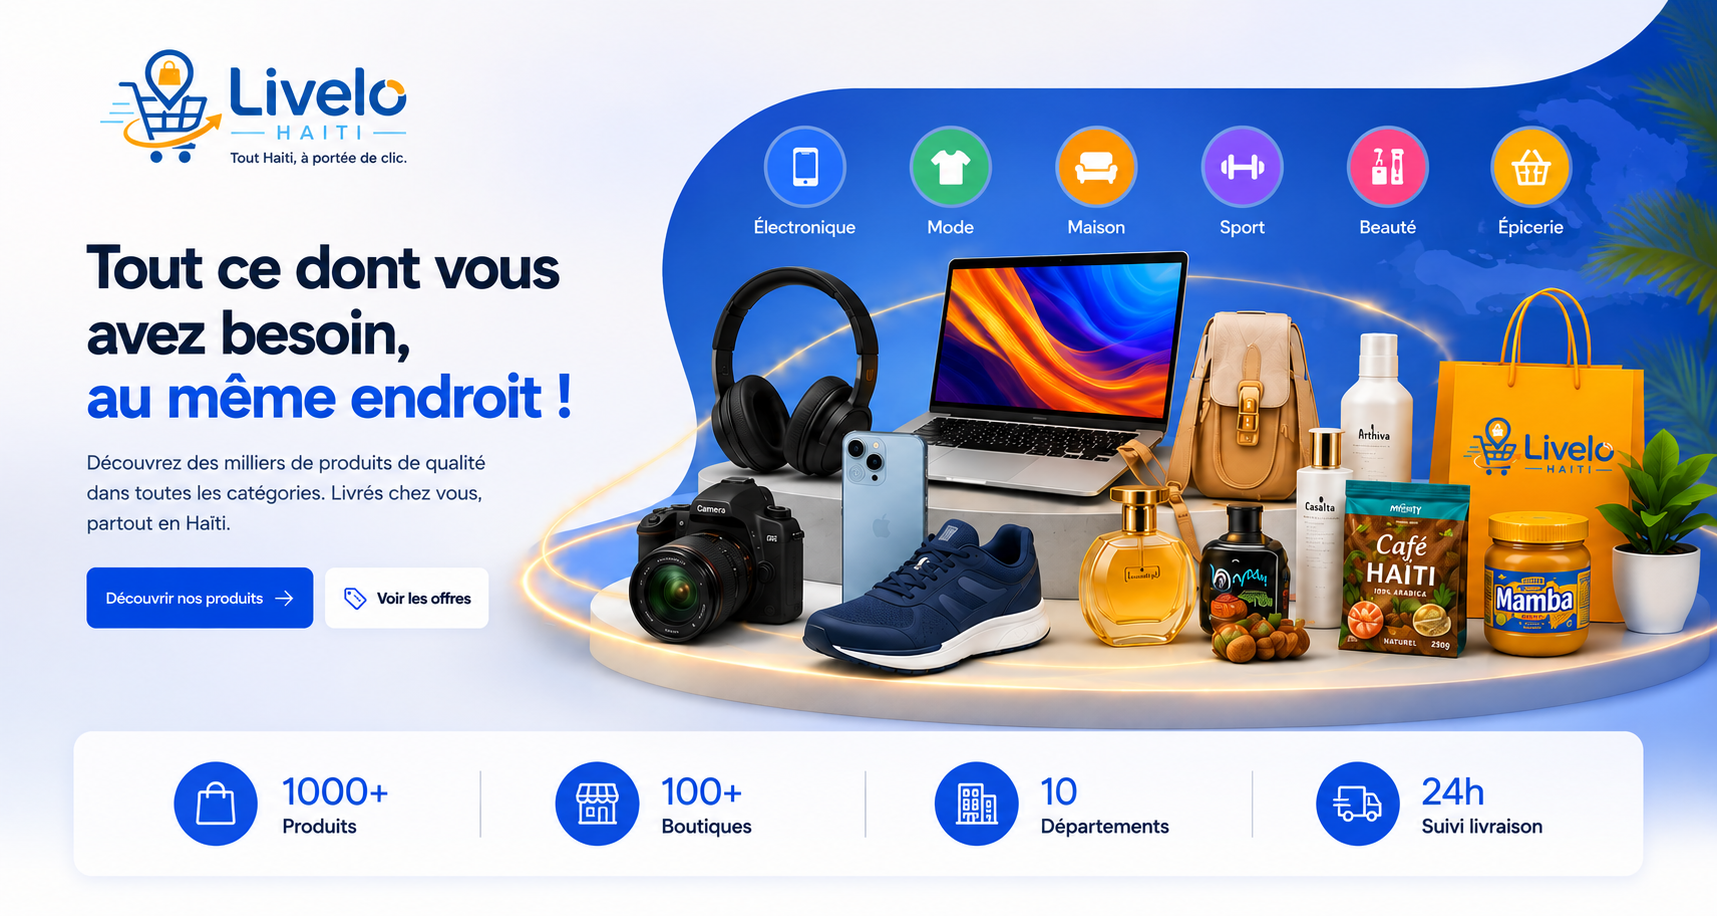
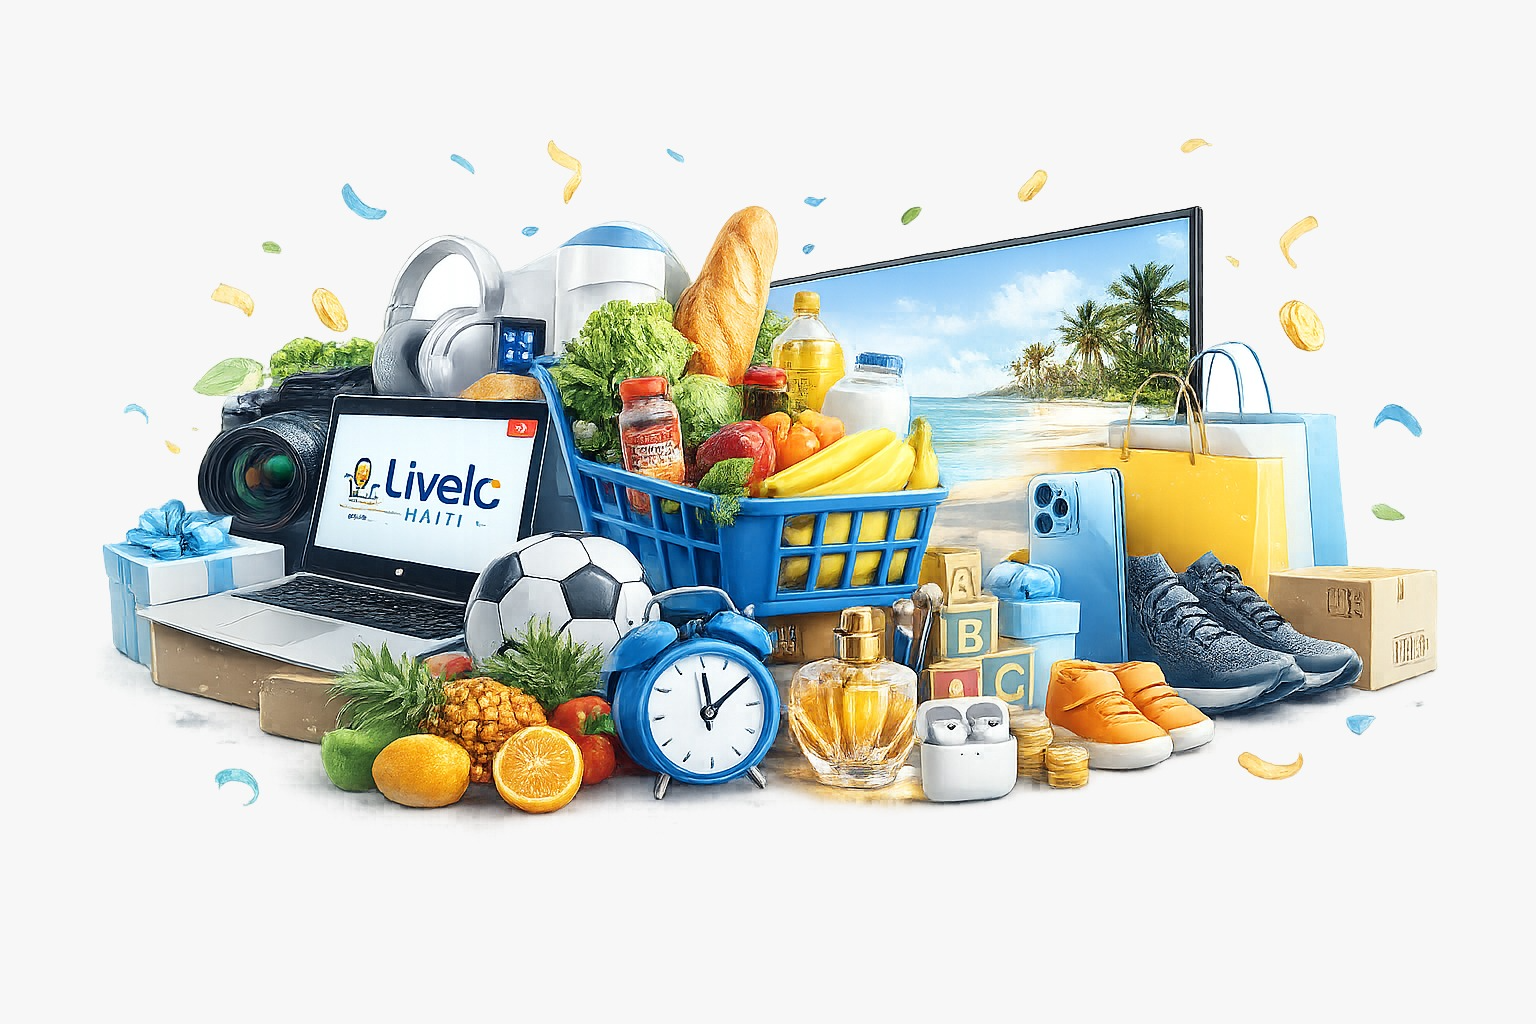
feat: animation of delivery in the hero section

diff --git a/components/home/HeroSection.tsx b/components/home/HeroSection.tsx
@@ -2,9 +2,15 @@
 
 import Image from "next/image";
 import Link from "next/link";
+import dynamic from "next/dynamic";
 import { AnimatePresence, motion } from "framer-motion";
-import { ArrowRight, ShieldCheck, Store, Truck } from "lucide-react";
+import { ArrowRight, ShieldCheck, Store } from "lucide-react";
 import { useEffect, useState } from "react";
+
+const DeliveryLottie = dynamic(
+  () => import("@/components/home/DeliveryLottie").then((m) => m.DeliveryLottie),
+  { ssr: false },
+);
 
 interface Slide {
   eyebrow: string;
@@ -40,11 +46,6 @@ const slides: Slide[] = [
     href: "/devenir-vendeur",
     gradient: "from-[#30BD57] to-[#4E73C7]",
   },
-];
-
-const sideCards = [
-  { icon: Truck, title: "Livraison nationale", text: "10 départements couverts", href: "/produits" },
-  { icon: Store, title: "Devenir vendeur", text: "Ouvrez votre boutique", href: "/devenir-vendeur" },
 ];
 
 export function HeroSection() {
@@ -112,27 +113,39 @@ export function HeroSection() {
 
         {/* Cartes latérales */}
         <div className="grid grid-cols-2 gap-4 lg:grid-cols-1">
-          {sideCards.map((card) => {
-            const Icon = card.icon;
-            return (
-              <Link
-                key={card.title}
-                href={card.href}
-                className="group flex flex-col justify-between rounded-3xl border border-[#B3D4E5] bg-white p-5 transition-all duration-300 hover:-translate-y-1 hover:border-[#4E73C7]/40 hover:shadow-[0_18px_40px_rgba(78,115,199,0.16)] lg:min-h-[8rem]"
-              >
-                <span className="flex h-11 w-11 items-center justify-center rounded-2xl bg-[#E2F4FF] text-[#4E73C7] transition group-hover:bg-[#4E73C7] group-hover:text-white">
-                  <Icon aria-hidden="true" size={22} />
-                </span>
-                <span className="mt-3">
-                  <span className="block text-sm font-black text-[#4E73C7]">{card.title}</span>
-                  <span className="mt-0.5 flex items-center gap-1 text-xs font-bold text-[#ACACAC] group-hover:text-[#EDA415]">
-                    {card.text}
-                    <ArrowRight size={12} className="transition group-hover:translate-x-0.5" />
-                  </span>
-                </span>
-              </Link>
-            );
-          })}
+          {/* Livraison nationale — animation Lottie */}
+          <Link
+            href="/produits"
+            className="group flex flex-col overflow-hidden rounded-3xl border border-[#B3D4E5] bg-white transition-all duration-300 hover:-translate-y-1 hover:border-[#4E73C7]/40 hover:shadow-[0_18px_40px_rgba(78,115,199,0.16)]"
+          >
+            <div className="relative aspect-[16/10] w-full overflow-hidden bg-[#E2F4FF]">
+              <DeliveryLottie className="absolute inset-0 flex h-full w-full items-center justify-center" />
+            </div>
+            <div className="flex items-center justify-between gap-2 p-4">
+              <span>
+                <span className="block text-sm font-black text-[#4E73C7]">Livraison nationale</span>
+                <span className="mt-0.5 block text-xs font-bold text-[#ACACAC]">10 départements couverts</span>
+              </span>
+              <ArrowRight aria-hidden="true" size={16} className="shrink-0 text-[#4E73C7] transition group-hover:translate-x-0.5 group-hover:text-[#EDA415]" />
+            </div>
+          </Link>
+
+          {/* Devenir vendeur */}
+          <Link
+            href="/devenir-vendeur"
+            className="group flex flex-col justify-between rounded-3xl border border-[#B3D4E5] bg-white p-5 transition-all duration-300 hover:-translate-y-1 hover:border-[#4E73C7]/40 hover:shadow-[0_18px_40px_rgba(78,115,199,0.16)] lg:min-h-[8rem]"
+          >
+            <span className="flex h-11 w-11 items-center justify-center rounded-2xl bg-[#E2F4FF] text-[#4E73C7] transition group-hover:bg-[#4E73C7] group-hover:text-white">
+              <Store aria-hidden="true" size={22} />
+            </span>
+            <span className="mt-3">
+              <span className="block text-sm font-black text-[#4E73C7]">Devenir vendeur</span>
+              <span className="mt-0.5 flex items-center gap-1 text-xs font-bold text-[#ACACAC] group-hover:text-[#EDA415]">
+                Ouvrez votre boutique
+                <ArrowRight size={12} className="transition group-hover:translate-x-0.5" />
+              </span>
+            </span>
+          </Link>
         </div>
       </div>
     </section>

diff --git a/components/home/DeliveryLottie.tsx b/components/home/DeliveryLottie.tsx
@@ -1,0 +1,29 @@
+"use client";
+
+import Lottie from "lottie-react";
+import { useEffect, useState } from "react";
+
+type LottieData = Record<string, unknown>;
+
+export function DeliveryLottie({ className = "" }: { className?: string }) {
+  const [data, setData] = useState<LottieData | null>(null);
+
+  useEffect(() => {
+    let active = true;
+    fetch("/animations/delivery.json")
+      .then((response) => response.json())
+      .then((json: LottieData) => {
+        if (active) setData(json);
+      })
+      .catch(() => {
+        if (active) setData(null);
+      });
+    return () => {
+      active = false;
+    };
+  }, []);
+
+  if (!data) return <div className={className} aria-hidden="true" />;
+
+  return <Lottie animationData={data} loop autoplay className={className} aria-hidden="true" />;
+}